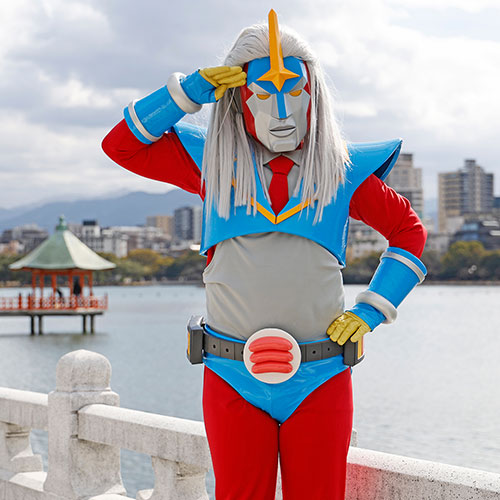
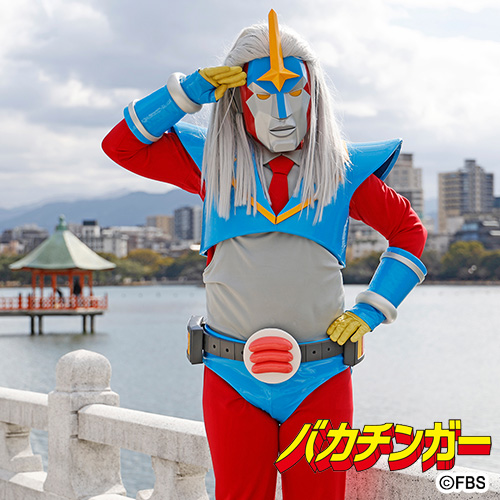
画像にロゴコピーライト追加

Changed region(s): [[0.54, 0.84, 0.99, 0.99], [0.69, 0.3, 0.72, 0.33], [0.54, 0.42, 0.57, 0.45]]

diff --git a/index.html b/index.html
@@ -37,8 +37,8 @@
         <input type="text" maxlength="6" id="left_col">
       </div>
       <div class="btn">
-        <p class="explain"> 右のことば(6文字まで)</p>
-        <input type="text" maxlength="6" id="right_col">
+        <p class="explain"> 右のことば(5文字まで)</p>
+        <input type="text" maxlength="5" id="right_col">
       </div>
     </div>
 

diff --git a/css/style.css b/css/style.css
@@ -90,7 +90,7 @@ main {
 
 #right_display {
     position: absolute;
-    top: 60px;
+    top: 21px;
     left: 357px;
     height: 500px;
 

diff --git a/readme.md b/readme.md
@@ -12,7 +12,7 @@ https://katsuki1128.github.io/bakachin_generator/
 ## 工夫した点
   - 画面を見ながら楽しく作れるように即時性にこだわった 
   - 文字を打ったら即座に画面に反映させるようにした
-  - 画像を選択したら即座に画面に反映させるようにした
+  - 画像を選択したら即座に画面に反cd映させるようにした
   - 過去に作ったものを保存すると、ローカルストレージにテキストと画像のデータを配列で保存し、ボタンを自動で生成して呼び出せる
   - 保存ボタンのクリック数に紐づいて配列のプログラムを組んだので、コードの量が省略できた。
 
@@ -23,8 +23,6 @@ https://katsuki1128.github.io/bakachin_generator/
   -  const rightText = $('#right_display').text();　と記載した時にダブルクォーテーションではダメだった点。
 
 ## 改良したいが実装できていない点
-  - バカチンジェネレーターのロゴが入る
-  - コピーライト表記を入れる
   - ランダムな番号を入れる
   - シェアボタインをつける 
   - 気持ちをつぶやいたらAIでその時にピッタリの言葉を作れるようにしたい
